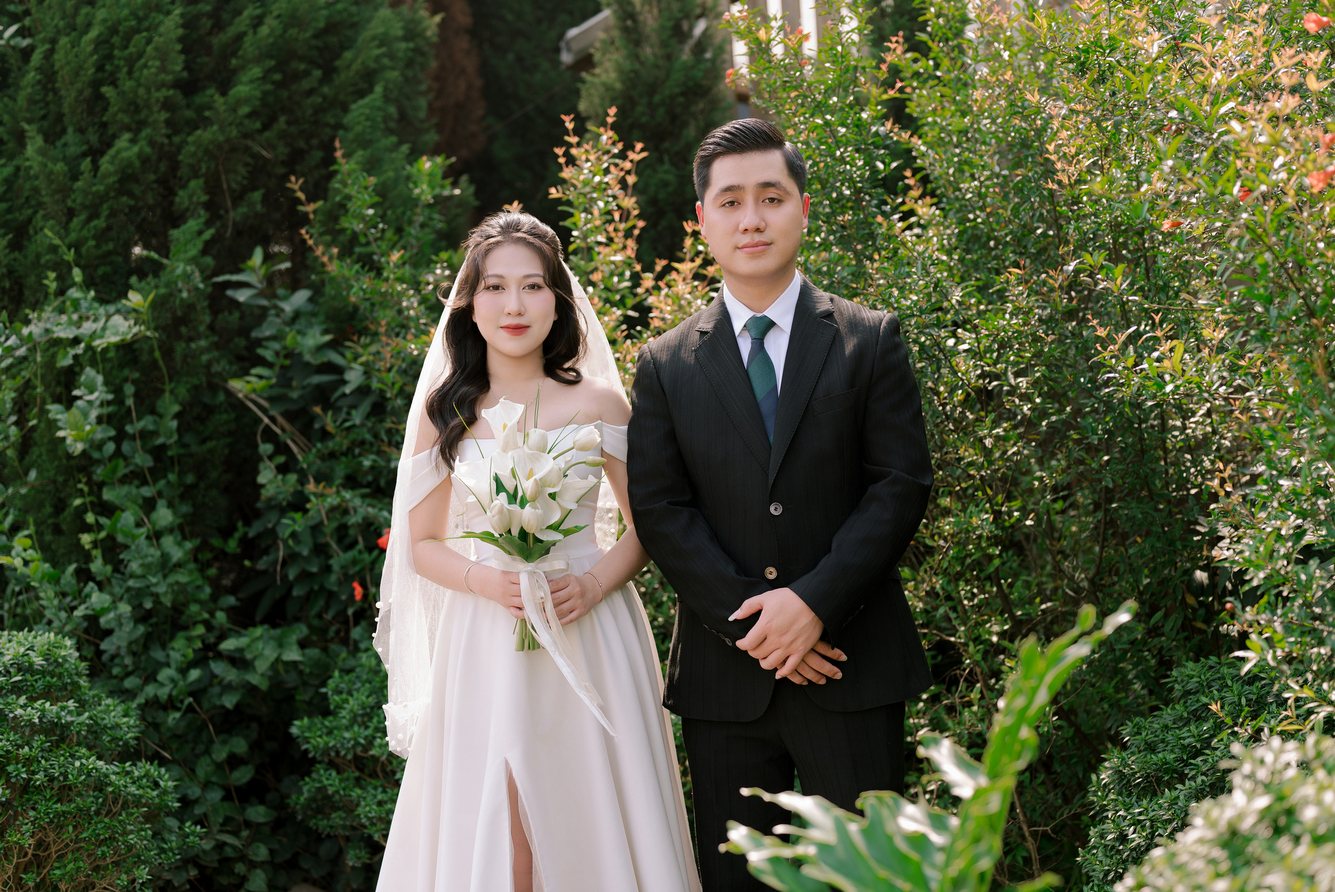
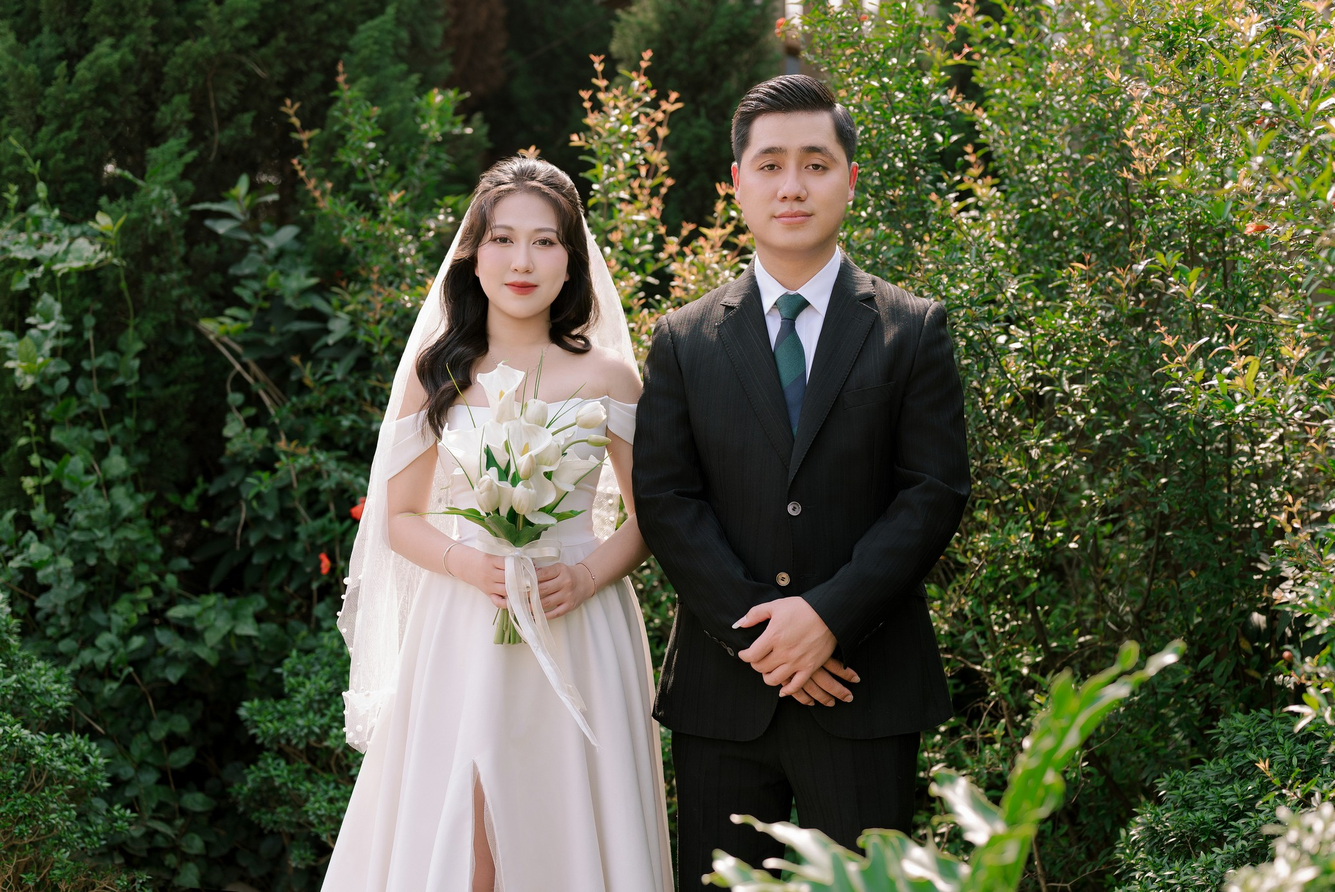
Sửa theo fb đợt 2

diff --git a/Views/DucPhuong-nhagai/layouts/album.html b/Views/DucPhuong-nhagai/layouts/album.html
@@ -10,11 +10,6 @@
             <div class="col-md-12 bg-gallery" id="gallery">
                 <ul id="fh5co-gallery-list">
                     <li class="one-third animate-box gallery-item" data-animate-effect="fadeIn"
-                        style="background-image: url(/DucPhuong/img/MIN_8678.jpg); ">
-                        <a href="/DucPhuong/img/MIN_8678.jpg" data-lightbox="gallery">
-                        </a>
-                    </li>
-                    <li class="one-third animate-box gallery-item" data-animate-effect="fadeIn"
                         style="background-image: url(/DucPhuong/img/MIN_8723.JPG); background-position: top;">
                         <a href="/DucPhuong/img/MIN_8723.JPG" data-lightbox="gallery">
                         </a>
@@ -35,8 +30,13 @@
                         </a>
                     </li>
                     <li class="one-third animate-box gallery-item" data-animate-effect="fadeIn"
-                        style="background-image: url(/DucPhuong/img/MIN_9337.JPG); ">
-                        <a href="/DucPhuong/img/MIN_9337.JPG" data-lightbox="gallery">
+                        style="background-image: url(/DucPhuong/img/MIN_8649.JPG); ">
+                        <a href="/DucPhuong/img/MIN_8649.JPG" data-lightbox="gallery">
+                        </a>
+                    </li>
+                    <li class="one-third animate-box gallery-item" data-animate-effect="fadeIn"
+                        style="background-image: url(/DucPhuong/img/MIN_8804.JPG); ">
+                        <a href="/DucPhuong/img/MIN_8804.JPG" data-lightbox="gallery">
                         </a>
                     </li>
                     <li class="one-third animate-box gallery-item" data-animate-effect="fadeIn"
@@ -45,20 +45,15 @@
                         </a>
                     </li>
                     <li class="one-third animate-box gallery-item" data-animate-effect="fadeIn"
-                        style="background-image: url(/DucPhuong/img/MIN_8889.JPG); ">
-                        <a href="/DucPhuong/img/MIN_8889.JPG" data-lightbox="gallery">
-                        </a>
-                    </li>
-                    <li class="one-third animate-box gallery-item" data-animate-effect="fadeIn"
                         style="background-image: url(/DucPhuong/img/MIN_8708.jpg); ">
                         <a href="/DucPhuong/img/MIN_8708.jpg" data-lightbox="gallery">
                         </a>
                     </li>
-                    <!-- <li class="one-third animate-box gallery-item" data-animate-effect="fadeIn"
-                        style="background-image: url(/DucPhuong/img/IMG_6421.JPG); ">
-                        <a href="/DucPhuong/img/IMG_6421.JPG" data-lightbox="gallery">
+                    <li class="one-third animate-box gallery-item" data-animate-effect="fadeIn"
+                        style="background-image: url(/DucPhuong/img/MIN_8792.JPG); ">
+                        <a href="/DucPhuong/img/MIN_8792.JPG" data-lightbox="gallery">
                         </a>
-                    </li> -->
+                    </li>
                 </ul>
             </div>
         </div>

diff --git a/Views/DucPhuong/layouts/album.html b/Views/DucPhuong/layouts/album.html
@@ -10,11 +10,6 @@
             <div class="col-md-12 bg-gallery" id="gallery">
                 <ul id="fh5co-gallery-list">
                     <li class="one-third animate-box gallery-item" data-animate-effect="fadeIn"
-                        style="background-image: url(/DucPhuong/img/MIN_8678.jpg); ">
-                        <a href="/DucPhuong/img/MIN_8678.jpg" data-lightbox="gallery">
-                        </a>
-                    </li>
-                    <li class="one-third animate-box gallery-item" data-animate-effect="fadeIn"
                         style="background-image: url(/DucPhuong/img/MIN_8723.JPG); background-position: top;">
                         <a href="/DucPhuong/img/MIN_8723.JPG" data-lightbox="gallery">
                         </a>
@@ -35,8 +30,13 @@
                         </a>
                     </li>
                     <li class="one-third animate-box gallery-item" data-animate-effect="fadeIn"
-                        style="background-image: url(/DucPhuong/img/MIN_9337.JPG); ">
-                        <a href="/DucPhuong/img/MIN_9337.JPG" data-lightbox="gallery">
+                        style="background-image: url(/DucPhuong/img/MIN_8649.JPG); ">
+                        <a href="/DucPhuong/img/MIN_8649.JPG" data-lightbox="gallery">
+                        </a>
+                    </li>
+                    <li class="one-third animate-box gallery-item" data-animate-effect="fadeIn"
+                        style="background-image: url(/DucPhuong/img/MIN_8804.JPG); ">
+                        <a href="/DucPhuong/img/MIN_8804.JPG" data-lightbox="gallery">
                         </a>
                     </li>
                     <li class="one-third animate-box gallery-item" data-animate-effect="fadeIn"
@@ -45,20 +45,15 @@
                         </a>
                     </li>
                     <li class="one-third animate-box gallery-item" data-animate-effect="fadeIn"
-                        style="background-image: url(/DucPhuong/img/MIN_8889.JPG); ">
-                        <a href="/DucPhuong/img/MIN_8889.JPG" data-lightbox="gallery">
-                        </a>
-                    </li>
-                    <li class="one-third animate-box gallery-item" data-animate-effect="fadeIn"
                         style="background-image: url(/DucPhuong/img/MIN_8708.jpg); ">
                         <a href="/DucPhuong/img/MIN_8708.jpg" data-lightbox="gallery">
                         </a>
                     </li>
-                    <!-- <li class="one-third animate-box gallery-item" data-animate-effect="fadeIn"
-                        style="background-image: url(/DucPhuong/img/IMG_6421.JPG); ">
-                        <a href="/DucPhuong/img/IMG_6421.JPG" data-lightbox="gallery">
+                    <li class="one-third animate-box gallery-item" data-animate-effect="fadeIn"
+                        style="background-image: url(/DucPhuong/img/MIN_8792.JPG); ">
+                        <a href="/DucPhuong/img/MIN_8792.JPG" data-lightbox="gallery">
                         </a>
-                    </li> -->
+                    </li>
                 </ul>
             </div>
         </div>

diff --git a/Views/DucPhuong-nhagai/layouts/invite.html b/Views/DucPhuong-nhagai/layouts/invite.html
@@ -1,5 +1,5 @@
 <header id="fh5co-header" class="fh5co-cover" role="banner"
-    style="background-image:url(/DucPhuong/img/MIN_8585.jpg);" data-stellar-background-ratio="0.5">
+    style="background-image:url(/DucPhuong/img/MIN_8678.jpg);" data-stellar-background-ratio="0.5">
     <div class="overlay"></div>
     <div class="container">
         <div class="row">

diff --git a/Views/DucPhuong/layouts/invite.html b/Views/DucPhuong/layouts/invite.html
@@ -1,5 +1,5 @@
 <header id="fh5co-header" class="fh5co-cover" role="banner"
-    style="background-image:url(/DucPhuong/img/MIN_8585.jpg);" data-stellar-background-ratio="0.5">
+    style="background-image:url(/DucPhuong/img/MIN_8678.jpg);" data-stellar-background-ratio="0.5">
     <div class="overlay"></div>
     <div class="container">
         <div class="row">

diff --git a/Views/DucPhuong-nhagai/layouts/thank-you.html b/Views/DucPhuong-nhagai/layouts/thank-you.html
@@ -1,5 +1,5 @@
 <div id="fh5co-started" class="fh5co-bg thank"
-style="background-image:url(/DucPhuong/img/MIN_9225.JPG); opacity: 0.7;">
+style="background-image:url(/DucPhuong/img/MIN_8585-1.png); opacity: 0.9;">
 <div class="overlay"></div>
 <div class="container">
     <div class="row animate-box">

diff --git a/Views/DucPhuong/layouts/thank-you.html b/Views/DucPhuong/layouts/thank-you.html
@@ -1,5 +1,5 @@
 <div id="fh5co-started" class="fh5co-bg thank"
-style="background-image:url(/DucPhuong/img/MIN_9225.JPG); opacity: 0.7;">
+style="background-image:url(/DucPhuong/img/MIN_8585-1.png); opacity: 0.9;">
 <div class="overlay"></div>
 <div class="container">
     <div class="row animate-box">
